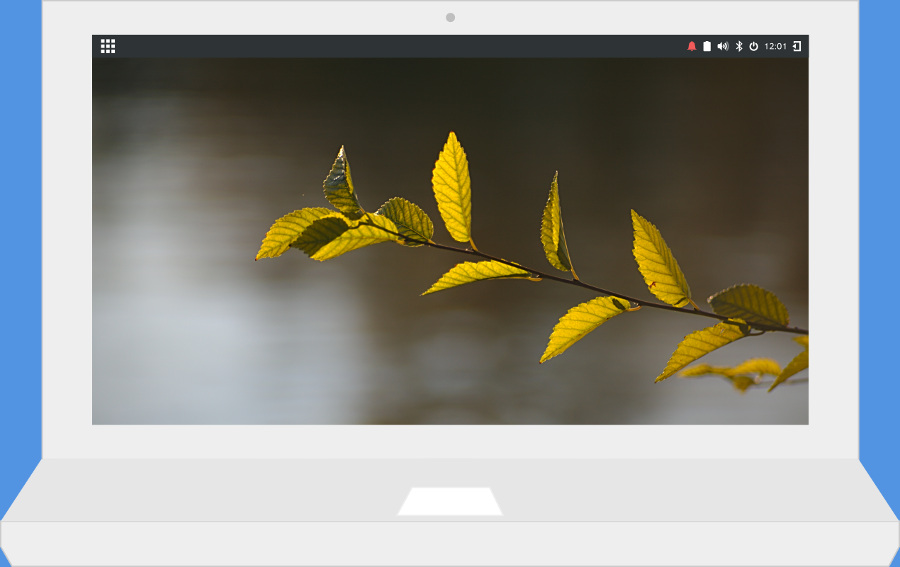
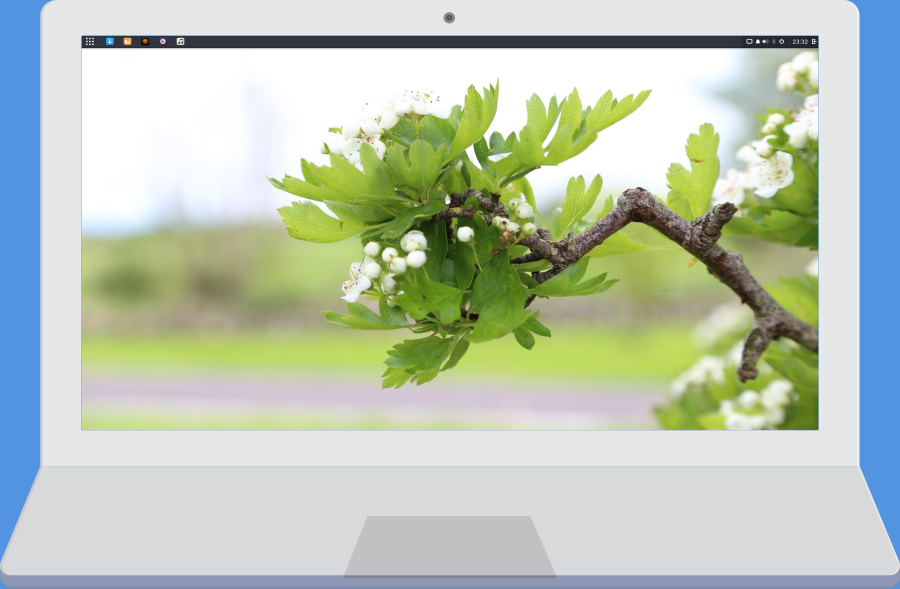
Fix Firefox styling. Updated laptop and credited individual.

diff --git a/themes/solus/layouts/partials/footer.html b/themes/solus/layouts/partials/footer.html
@@ -25,7 +25,7 @@
 		{{ end }}
 		<p>
 			Copyright © 2015-{{ .Site.Params.copyright }} Solus Project. The Solus logo is Copyright © 2016-{{ .Site.Params.copyright }} Solus Project.<br />
-			All rights reserved. Icons provided by <a href="https://github.com/horst3180/arc-icon-theme" target="_blank">horst3180 via Arc</a>, 
+			All rights reserved. Laptop graphic provided by Clyde Goodall. Icons provided by <a href="https://github.com/horst3180/arc-icon-theme" target="_blank">horst3180 via Arc</a>, 
 			application icons from Sam Hewitt via <a href="https://github.com/snwh/moka-icon-theme" target="_blank">Moka</a> and 
 			<a href="https://github.com/snwh/paper-icon-theme" target="_blank">Paper</a>.
 		</p>
